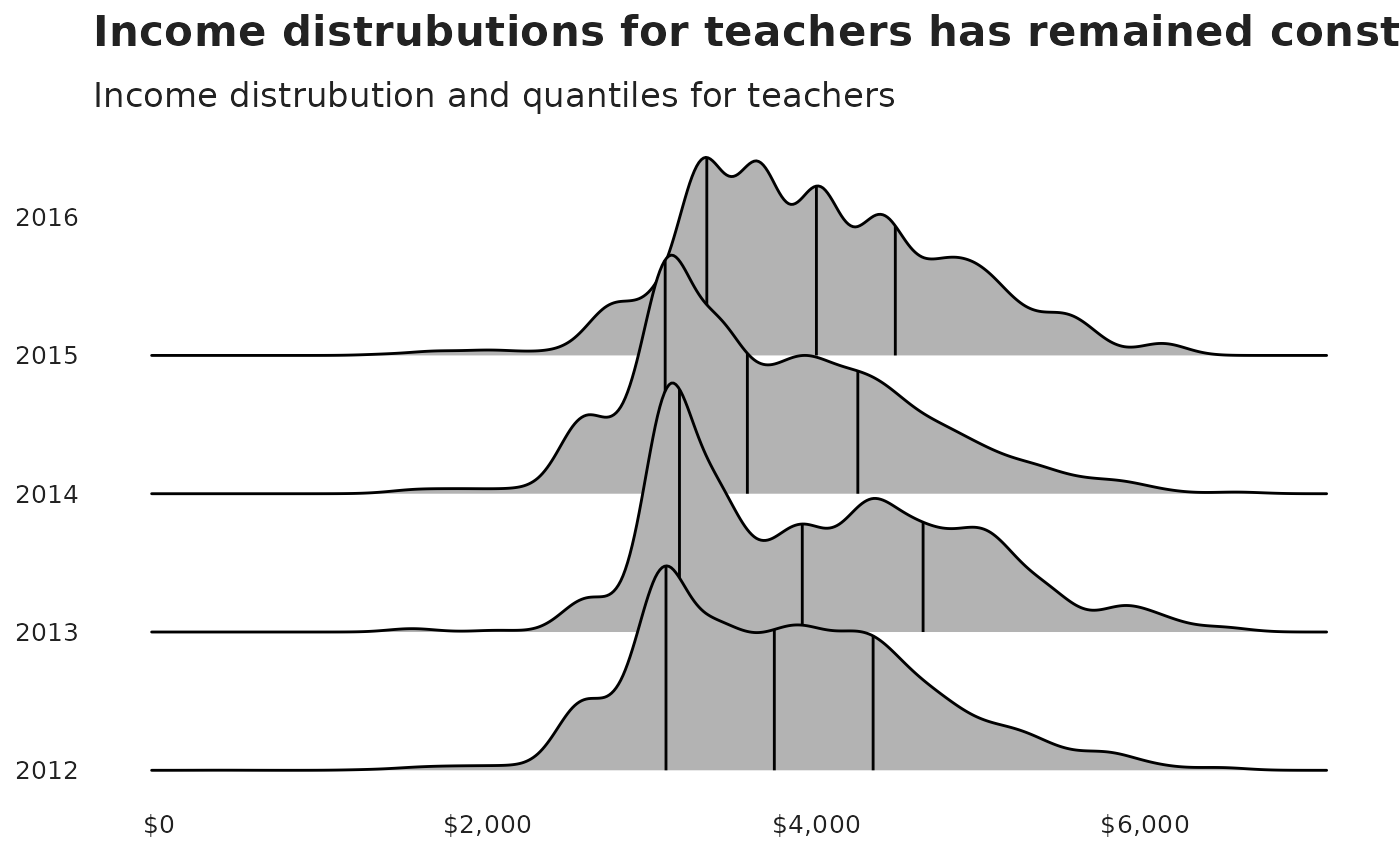
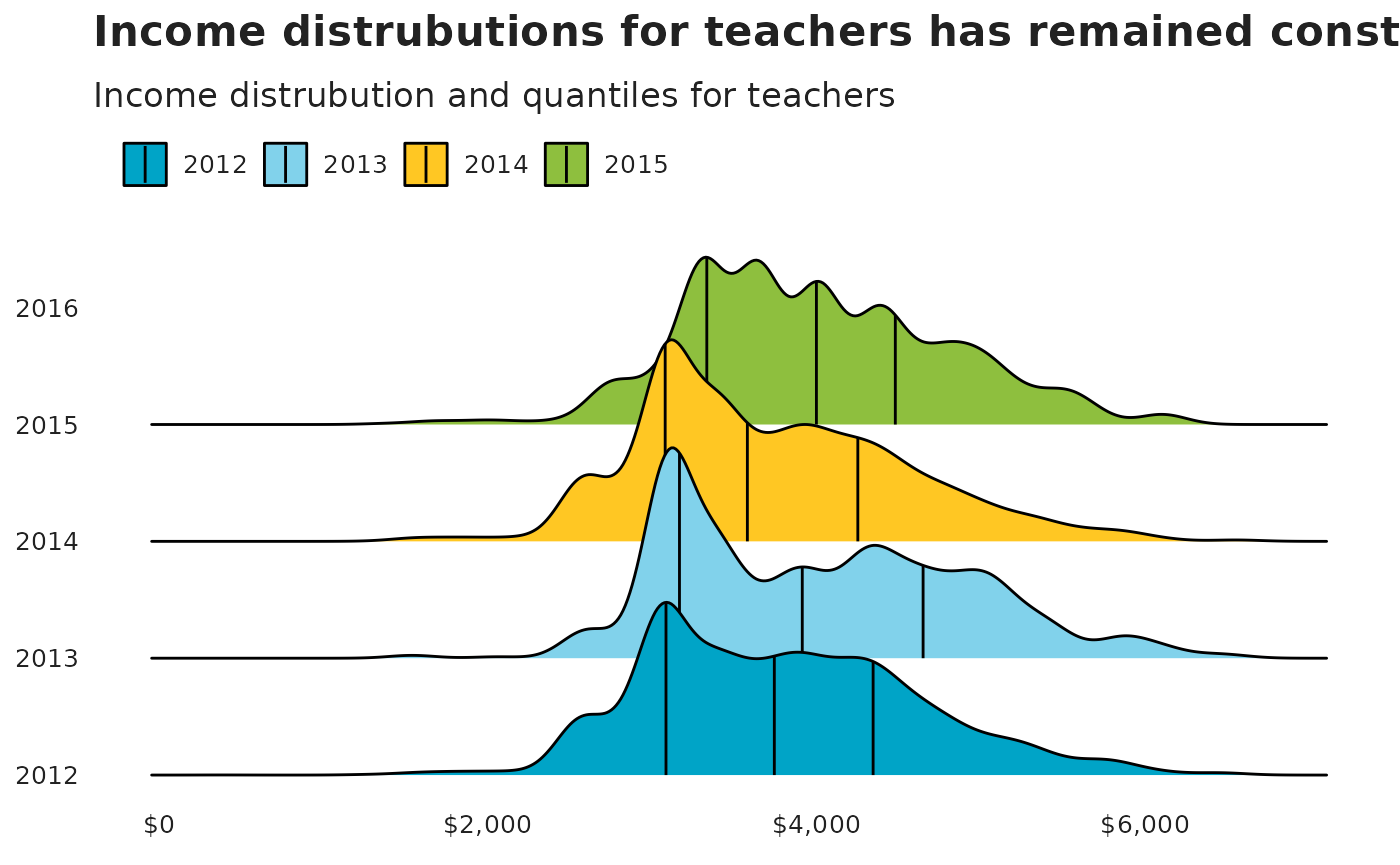
Deploying to gh-pages from @ tntp/tntpr@2af4ddc4fd6e956c5137beaf76e32c2cb878ff3e 🚀

diff --git a/articles/visualization-cookbook.html b/articles/visualization-cookbook.html
@@ -513,12 +513,13 @@ package.</p>
 contains additional plots for plotting distributions using ridgeline
 plots.</p>
 <div class="sourceCode" id="cb19"><pre class="downlit sourceCode r">
-<code class="sourceCode R"><span><span class="fu"><a href="https://ggplot2.tidyverse.org/reference/ggplot.html" class="external-link">ggplot</a></span><span class="op">(</span><span class="va">county_data</span>, <span class="fu"><a href="https://ggplot2.tidyverse.org/reference/aes.html" class="external-link">aes</a></span><span class="op">(</span>x <span class="op">=</span> <span class="va">t_salary</span>, y <span class="op">=</span> <span class="va">school_year</span>, group <span class="op">=</span> <span class="va">school_year</span><span class="op">)</span><span class="op">)</span> <span class="op">+</span></span>
-<span>  <span class="fu"><a href="https://wilkelab.org/ggridges/reference/stat_density_ridges.html" class="external-link">stat_density_ridges</a></span><span class="op">(</span>quantile_lines <span class="op">=</span> <span class="cn">TRUE</span>, quantiles <span class="op">=</span> <span class="fl">4</span><span class="op">)</span> <span class="op">+</span></span>
+<code class="sourceCode R"><span><span class="fu"><a href="https://ggplot2.tidyverse.org/reference/ggplot.html" class="external-link">ggplot</a></span><span class="op">(</span><span class="va">county_data</span>, <span class="fu"><a href="https://ggplot2.tidyverse.org/reference/aes.html" class="external-link">aes</a></span><span class="op">(</span>x <span class="op">=</span> <span class="va">t_salary</span>, y <span class="op">=</span> <span class="va">school_year</span>, group <span class="op">=</span> <span class="va">school_year</span>, fill <span class="op">=</span> <span class="fu"><a href="https://rdrr.io/r/base/factor.html" class="external-link">factor</a></span><span class="op">(</span><span class="va">school_year</span><span class="op">)</span><span class="op">)</span><span class="op">)</span> <span class="op">+</span></span>
+<span>  <span class="fu"><a href="https://wilkelab.org/ggridges/reference/geom_density_ridges.html" class="external-link">geom_density_ridges</a></span><span class="op">(</span>quantile_lines <span class="op">=</span> <span class="cn">TRUE</span>, quantiles <span class="op">=</span> <span class="fl">4</span><span class="op">)</span> <span class="op">+</span></span>
 <span>  <span class="fu"><a href="https://ggplot2.tidyverse.org/reference/scale_continuous.html" class="external-link">scale_x_continuous</a></span><span class="op">(</span>labels <span class="op">=</span> <span class="fu">scales</span><span class="fu">::</span><span class="va"><a href="https://scales.r-lib.org/reference/dollar_format.html" class="external-link">dollar</a></span><span class="op">)</span> <span class="op">+</span></span>
 <span>  <span class="fu"><a href="https://ggplot2.tidyverse.org/reference/labs.html" class="external-link">labs</a></span><span class="op">(</span>title <span class="op">=</span> <span class="st">"Income distrubutions for teachers has remained constant"</span>,</span>
 <span>       subtitle <span class="op">=</span> <span class="st">"Income distrubution and quantiles for teachers"</span><span class="op">)</span> <span class="op">+</span></span>
-<span>  <span class="fu"><a href="../reference/tntp_style.html">tntp_style</a></span><span class="op">(</span>base_size <span class="op">=</span> <span class="va">base_font_size</span><span class="op">)</span></span></code></pre></div>
+<span>  <span class="fu"><a href="../reference/tntp_style.html">tntp_style</a></span><span class="op">(</span>base_size <span class="op">=</span> <span class="va">base_font_size</span><span class="op">)</span> <span class="op">+</span> </span>
+<span>  <span class="fu"><a href="../reference/scale_fill_tntp.html">scale_fill_tntp</a></span><span class="op">(</span><span class="op">)</span></span></code></pre></div>
 <p><img src="visualization-cookbook_files/figure-html/unnamed-chunk-19-1.png" width="700"></p>
 <hr>
 </div>
